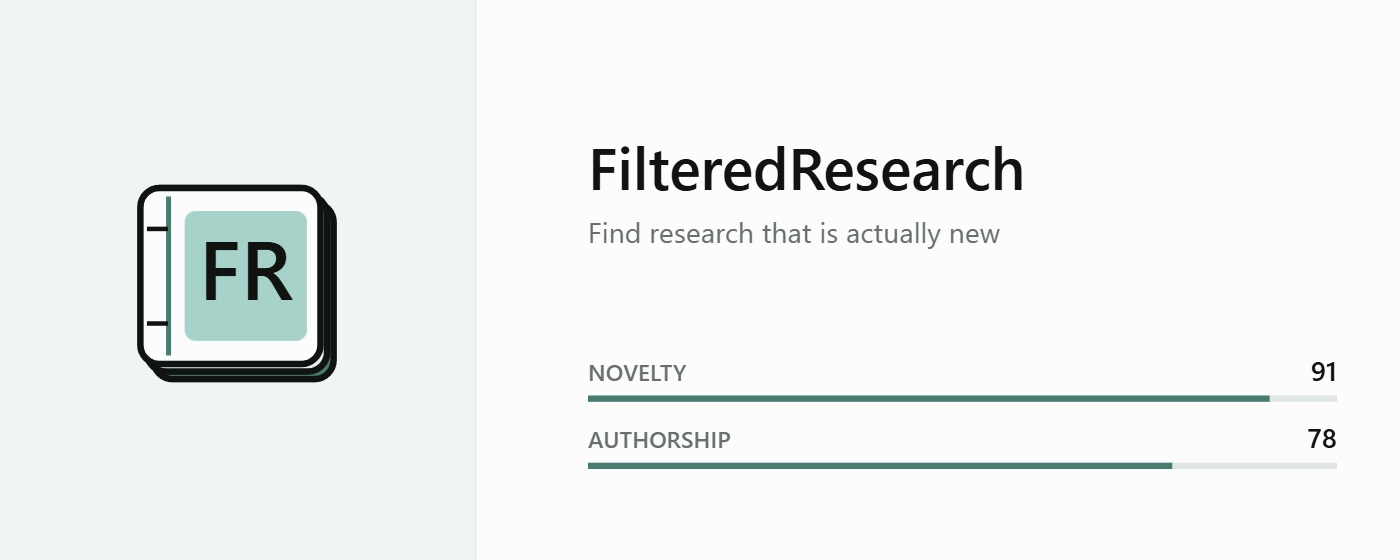
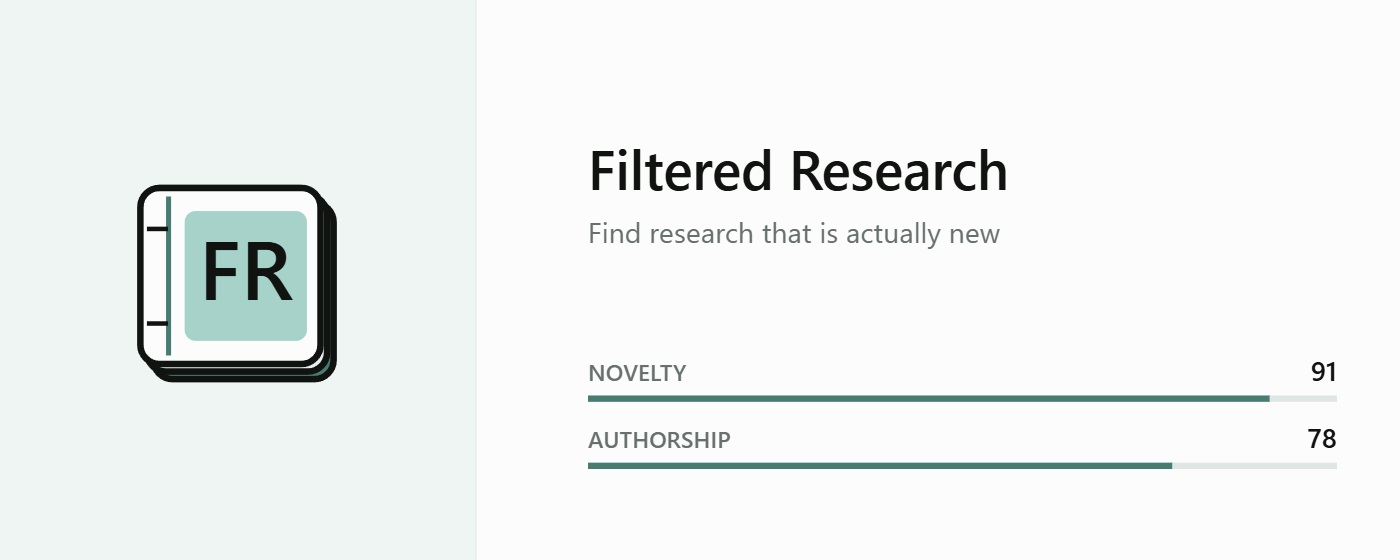
Release v1.0.1 rename the product to Filtered Research
The Chrome Web Store takes a published item's name from the manifest, not from a
field on the listing tab, so renaming a live item means shipping a new version
rather than editing the listing.

Rename in the manifest name and short name, the toolbar tooltip, the side panel,
settings and inbox headers, the desktop notification text, the documentation, and
both promotional tiles.

The repository URL, the upload archive filename and the staged build directory
deliberately keep the original spelling. The privacy policy URL published on the
store listing points into the repository, and renaming it would break a link the
listing depends on.

Changed region(s): [[0.43, 0.2429, 0.7371, 0.3643]]

diff --git a/src/options/options.html b/src/options/options.html
@@ -1,5 +1,5 @@
-<!doctype html><html lang="en"><head><meta charset="utf-8"><meta name="viewport" content="width=device-width,initial-scale=1"><title>FilteredResearch settings</title><link rel="stylesheet" href="options.css"></head>
-<body><header class="top"><div class="wordmark"><img src="/assets/icon-128.png" alt="" width="30" height="30"><b>FilteredResearch</b></div><small>SETTINGS · v1.0.0</small></header>
+<!doctype html><html lang="en"><head><meta charset="utf-8"><meta name="viewport" content="width=device-width,initial-scale=1"><title>Filtered Research settings</title><link rel="stylesheet" href="options.css"></head>
+<body><header class="top"><div class="wordmark"><img src="/assets/icon-128.png" alt="" width="30" height="30"><b>Filtered Research</b></div><small>SETTINGS · v1.0.1</small></header>
 <main><div class="title"><h1>Research settings</h1><p>Filters are local. Changing interests re-ranks papers already in your index without fetching anything.</p></div>
 <form id="settings-form">
   <section><div class="section-head"><h2>Scope</h2><p>The selected categories decide what is screened. Interests rank the results rather than excluding everything else.</p></div>

diff --git a/src/notifications/notifications.html b/src/notifications/notifications.html
@@ -3,12 +3,12 @@
   <head>
     <meta charset="utf-8" />
     <meta name="viewport" content="width=device-width, initial-scale=1" />
-    <title>FilteredResearch · New papers</title>
+    <title>Filtered Research · New papers</title>
     <link rel="stylesheet" href="notifications.css" />
   </head>
   <body>
     <header class="masthead">
-      <div class="wordmark"><img src="/assets/icon-128.png" alt="" width="26" height="26"> FilteredResearch</div>
+      <div class="wordmark"><img src="/assets/icon-128.png" alt="" width="26" height="26"> Filtered Research</div>
       <p>New-paper inbox / stored locally in this Chrome profile</p>
     </header>
 

diff --git a/src/sidepanel/sidepanel.html b/src/sidepanel/sidepanel.html
@@ -3,7 +3,7 @@
   <head>
     <meta charset="utf-8" />
     <meta name="viewport" content="width=device-width, initial-scale=1" />
-    <title>FilteredResearch</title>
+    <title>Filtered Research</title>
     <link rel="stylesheet" href="sidepanel.css" />
   </head>
   <body>
@@ -11,7 +11,7 @@
       <div class="brand">
         <img class="brand-mark" src="/assets/icon-128.png" alt="" aria-hidden="true" width="34" height="34">
         <div>
-          <h1>FilteredResearch</h1>
+          <h1>Filtered Research</h1>
           <p id="status-line">Local research signal</p>
         </div>
       </div>

diff --git a/src/background/service-worker.js b/src/background/service-worker.js
@@ -558,7 +558,7 @@ async function recordNewPaperNotifications(
       type: "basic",
       iconUrl: chrome.runtime.getURL("assets/icon-128.png"),
       title: `${entries.length} new papers cleared both filters`,
-      message: "Open the FilteredResearch inbox to review the full batch.",
+      message: "Open the Filtered Research inbox to review the full batch.",
       priority: 1,
     });
   }

diff --git a/PRIVACY.md b/PRIVACY.md
@@ -2,7 +2,7 @@
 
 Effective: August 17, 2026
 
-FilteredResearch is a local-first Chrome extension with no FilteredResearch-operated server, advertising, analytics, telemetry, accounts, or sale of data.
+Filtered Research is a local-first Chrome extension with no Filtered Research-operated server, advertising, analytics, telemetry, accounts, or sale of data.
 
 ## Data handled
 
@@ -15,9 +15,9 @@ FilteredResearch is a local-first Chrome extension with no FilteredResearch-oper
 
 The background service worker sends HTTPS requests to `https://api.openalex.org/` for public scholarly metadata and author bibliometrics, and to arXiv's public category-taxonomy page to keep category codes/names aligned with arXiv. If the user entered an OpenAlex key, it is attached only to OpenAlex requests. [OpenAlex's terms](https://openalex.org/OpenAlex_termsofservice.pdf) and [privacy policy](https://openalex.org/OpenAlex_privacy_policy.pdf) apply to its service.
 
-Every OpenAlex request carries a fixed `mailto` parameter identifying FilteredResearch itself, which is how OpenAlex asks tools to identify themselves so it can contact whoever maintains one. It is a project contact address, is the same for every install, and carries nothing about you. Your own OpenAlex key, if you add one, is attached only to these requests and is never sent anywhere else.
+Every OpenAlex request carries a fixed `mailto` parameter identifying Filtered Research itself, which is how OpenAlex asks tools to identify themselves so it can contact whoever maintains one. It is a project contact address, is the same for every install, and carries nothing about you. Your own OpenAlex key, if you add one, is attached only to these requests and is never sent anywhere else.
 
-Only the background service worker makes network requests, and only to the destinations disclosed above. FilteredResearch does not transmit page URLs, browsing activity, research interests, scores, or locally indexed papers to its developer.
+Only the background service worker makes network requests, and only to the destinations disclosed above. Filtered Research does not transmit page URLs, browsing activity, research interests, scores, or locally indexed papers to its developer.
 
 ## Retention and deletion
 
@@ -39,10 +39,10 @@ Users can:
 - `https://arxiv.org/*`: retrieve arXiv's official public category taxonomy so category codes and names stay aligned.
 - `alarms`: wake the service worker so an automatic scan can run on the interval the user chose.
 
-FilteredResearch does not request `tabs`, `history`, `cookies`, `<all_urls>`, precise location, identity, or clipboard access.
+Filtered Research does not request `tabs`, `history`, `cookies`, `<all_urls>`, precise location, identity, or clipboard access.
 
 ## Limited Use statement
 
-Data obtained through Chrome permissions is used only to provide or improve FilteredResearch's single research-discovery purpose. It is not transferred for advertising, sold, used for creditworthiness or lending, or made available for humans to read. No user data is used for personalized, retargeted, or interest-based advertising.
+Data obtained through Chrome permissions is used only to provide or improve Filtered Research's single research-discovery purpose. It is not transferred for advertising, sold, used for creditworthiness or lending, or made available for humans to read. No user data is used for personalized, retargeted, or interest-based advertising.
 
 Questions or security reports should be sent through the repository's private security-reporting channel.

diff --git a/README.md b/README.md
@@ -1,6 +1,6 @@
-# FilteredResearch
+# Filtered Research
 
-FilteredResearch v1.0.0 is a local-first Chrome extension that builds a user-bounded research index for a chosen field, then ranks papers on two transparent signals:
+Filtered Research v1.0.1 is a local-first Chrome extension that builds a user-bounded research index for a chosen field, then ranks papers on two transparent signals:
 
 - **Novelty**: lexical distance from up to 320 older, field-adjacent OpenAlex papers, adjusted for evidence completeness, rare title phrases, cross-field combinations, and incremental wording.
 - **Authorship**: an established-track-record signal using author h-index, citations, recent citedness, works count, ORCID presence, and authorship role.
@@ -136,13 +136,13 @@ Because both bars must be cleared, the final set is usually smaller than either 
 
 ## Privacy and permissions
 
-There is no FilteredResearch backend, analytics, advertising, or telemetry. Public scholarly metadata and scores stay in extension-owned IndexedDB. The personal API key stays in local Chrome extension storage and is hidden from content scripts. Supported pages are inspected for highlighting; unresolved scholarly titles/IDs may be resolved through OpenAlex or arXiv by the background worker, but nothing is sent to the developer.
+There is no Filtered Research backend, analytics, advertising, or telemetry. Public scholarly metadata and scores stay in extension-owned IndexedDB. The personal API key stays in local Chrome extension storage and is hidden from content scripts. Supported pages are inspected for highlighting; unresolved scholarly titles/IDs may be resolved through OpenAlex or arXiv by the background worker, but nothing is sent to the developer.
 
 Read [PRIVACY.md](PRIVACY.md) and the engineering release gate in [COMPLIANCE.md](COMPLIANCE.md). The extension requests no tabs, history, cookies, identity, clipboard, or all-sites access. Notifications are optional.
 
 ## Data source and licenses
 
-FilteredResearch uses [OpenAlex](https://openalex.org/) scholarly metadata. OpenAlex states that [its data is released under CC0](https://help.openalex.org/hc/en-us/articles/24396686889751-About-us); API use remains subject to its [current Terms](https://openalex.org/OpenAlex_termsofservice.pdf) and service limits. FilteredResearch is not affiliated with or endorsed by OpenAlex or any highlighted research site.
+Filtered Research uses [OpenAlex](https://openalex.org/) scholarly metadata. OpenAlex states that [its data is released under CC0](https://help.openalex.org/hc/en-us/articles/24396686889751-About-us); API use remains subject to its [current Terms](https://openalex.org/OpenAlex_termsofservice.pdf) and service limits. Filtered Research is not affiliated with or endorsed by OpenAlex or any highlighted research site.
 
 Project source code is licensed under Apache-2.0. Development was assisted by OpenAI Codex; this project is not affiliated with or endorsed by OpenAI. Contributors must verify the license of any new dependencies, copied code, fonts, or assets.
 

diff --git a/HISTORY.md b/HISTORY.md
@@ -1,4 +1,4 @@
-# FilteredResearch Release History
+# Filtered Research Release History
 
 ## v0.2.0 — Initial extension
 
@@ -135,7 +135,7 @@ Also hardened after a fuzz sweep of every exported function: a record with no ab
 
 ## v0.8.2 — Polite-pool identification
 
-- Every OpenAlex request now carries a fixed `mailto` parameter identifying FilteredResearch. OpenAlex serves identified callers from its polite pool, which is faster and throttled later than the anonymous pool. Users without a key of their own are the ones who feel anonymous throttling first, so this matters most for a first run.
+- Every OpenAlex request now carries a fixed `mailto` parameter identifying Filtered Research. OpenAlex serves identified callers from its polite pool, which is faster and throttled later than the anonymous pool. Users without a key of their own are the ones who feel anonymous throttling first, so this matters most for a first run.
 - The address is a project alias, identical for every install, published deliberately, and carries nothing about the user. It is attached whether or not a personal key exists, because it identifies the software rather than the caller.
 - Disclosed in `PRIVACY.md` alongside the existing statement that a user's own key is attached only to OpenAlex requests.
 
@@ -158,6 +158,12 @@ First public release. No behavioural changes beyond the fixes below; this versio
 - Audited what leaves the machine: two network call sites, both matching the declared hosts, and no beacon, XHR, WebSocket, cookie or local-storage use anywhere.
 - Added store assets and a plain-text listing description, and generated both promotional tiles at their exact required sizes.
 
+## v1.0.1 — Renamed to Filtered Research
+
+- Renamed the product from FilteredResearch to Filtered Research. The Chrome Web Store takes an item name from the manifest rather than from a dashboard field, so a rename ships as a new version rather than as an edit to the listing.
+- Updated the manifest name and short name, the side panel, settings and inbox headers, the desktop notification text, the documentation, and both promotional tiles.
+- The repository URL, the upload archive filename and the staged build directory keep the original spelling, because the privacy policy URL published on the listing points at the repository and must not break.
+
 ## Current state
 
-The released build is **v1.0.0**. Automated tests at release: **90 passing**.
+The released build is **v1.0.1**. Automated tests at release: **90 passing**.

diff --git a/docs/WEB_STORE_LISTING.md b/docs/WEB_STORE_LISTING.md
@@ -16,7 +16,7 @@ Find unusually novel recent research in your field, ranked on transparent novelt
 
 ## Full description
 
-FilteredResearch helps you find recent papers that are unusual relative to older
+Filtered Research helps you find recent papers that are unusual relative to older
 work in the same field and associated with an established authorship record.
 
 Choose an OpenAlex field, subfield, or arXiv category, then pick how far back to
@@ -39,7 +39,7 @@ Optional automatic scanning checks for new research every 3 hours, 6 hours,
 24 hours, or 3 days. Papers that clear both bars collect in a local inbox and the
 toolbar icon shows an unread count. Automatic scanning is off by default.
 
-FilteredResearch reads no web page. It has no content script, no server, no
+Filtered Research reads no web page. It has no content script, no server, no
 account, no advertising, no analytics, and no telemetry. Your settings, your
 OpenAlex key, and your paper index stay in Chrome extension storage on your
 machine. No developer key is bundled; each user supplies their own free OpenAlex
@@ -50,7 +50,7 @@ peer review, not verified novelty, not a measure of paper quality or scientific
 significance, and not a judgment about any researcher. Evidence and limitations
 are shown inside the extension and in the open-source documentation.
 
-Data source: OpenAlex public scholarly metadata (CC0). FilteredResearch is
+Data source: OpenAlex public scholarly metadata (CC0). Filtered Research is
 independent and is not endorsed by OpenAlex, arXiv, or OpenAI. Open source under
 Apache-2.0. Developed with assistance from OpenAI Codex.
 

diff --git a/docs/WEB_STORE_RELEASES.md b/docs/WEB_STORE_RELEASES.md
@@ -1,13 +1,13 @@
 # Automatic Chrome updates
 
-Chrome cannot auto-update an unpacked extension from GitHub. On Windows and macOS, normal automatic extension updates must be distributed through the Chrome Web Store. FilteredResearch therefore has two GitHub Actions paths:
+Chrome cannot auto-update an unpacked extension from GitHub. On Windows and macOS, normal automatic extension updates must be distributed through the Chrome Web Store. Filtered Research therefore has two GitHub Actions paths:
 
 - `CI` tests every change and attaches a load-unpacked ZIP to successful `main` runs.
 - `Publish to Chrome Web Store` uploads and submits every eligible `main` change once the store secrets below exist.
 
 ## One-time setup
 
-1. Register a Chrome Web Store developer account and manually create the first FilteredResearch item.
+1. Register a Chrome Web Store developer account and manually create the first Filtered Research item.
 2. Complete its Store listing, Privacy, and Distribution tabs and publish the first version once.
 3. In a Google Cloud project, enable the Chrome Web Store API, create OAuth credentials, and obtain a refresh token with the `https://www.googleapis.com/auth/chromewebstore` scope using the item owner's Google account.
 4. Add these GitHub repository Actions secrets:

diff --git a/SPEC.md b/SPEC.md
@@ -1,8 +1,8 @@
-# FilteredResearch v1.0.0 specification
+# Filtered Research v1.0.1 specification
 
 ## Product contract
 
-FilteredResearch is an open-source, local-first Chrome extension for finding recent papers that are both lexically unusual within their field and associated with an established authorship track record. It is not a publisher crawler, paper archive, citation recommender, peer-review substitute, or AI research product.
+Filtered Research is an open-source, local-first Chrome extension for finding recent papers that are both lexically unusual within their field and associated with an established authorship track record. It is not a publisher crawler, paper archive, citation recommender, peer-review substitute, or AI research product.
 
 The primary user chooses an OpenAlex field/subfield and an index depth in the sidebar. Depth options are 1 day and 3 days (Light), 1 week and 2 weeks (Moderate), and 1 month and 3 months (Intensive). Three months is the ceiling: deeper passes retrieved far more works than the scoring stage could keep up with, which made discovery unusably slow. Preferences are local-only. Discovery starts through an explicit user refresh, or on the automatic interval the user chooses.
 

diff --git a/docs/SCORING.md b/docs/SCORING.md
@@ -1,6 +1,6 @@
 # Scoring model v2
 
-FilteredResearch calculates scores locally from OpenAlex metadata. It does not use an LLM and does not claim to infer scientific truth at publication time.
+Filtered Research calculates scores locally from OpenAlex metadata. It does not use an LLM and does not claim to infer scientific truth at publication time.
 
 ## Novelty signal
 
